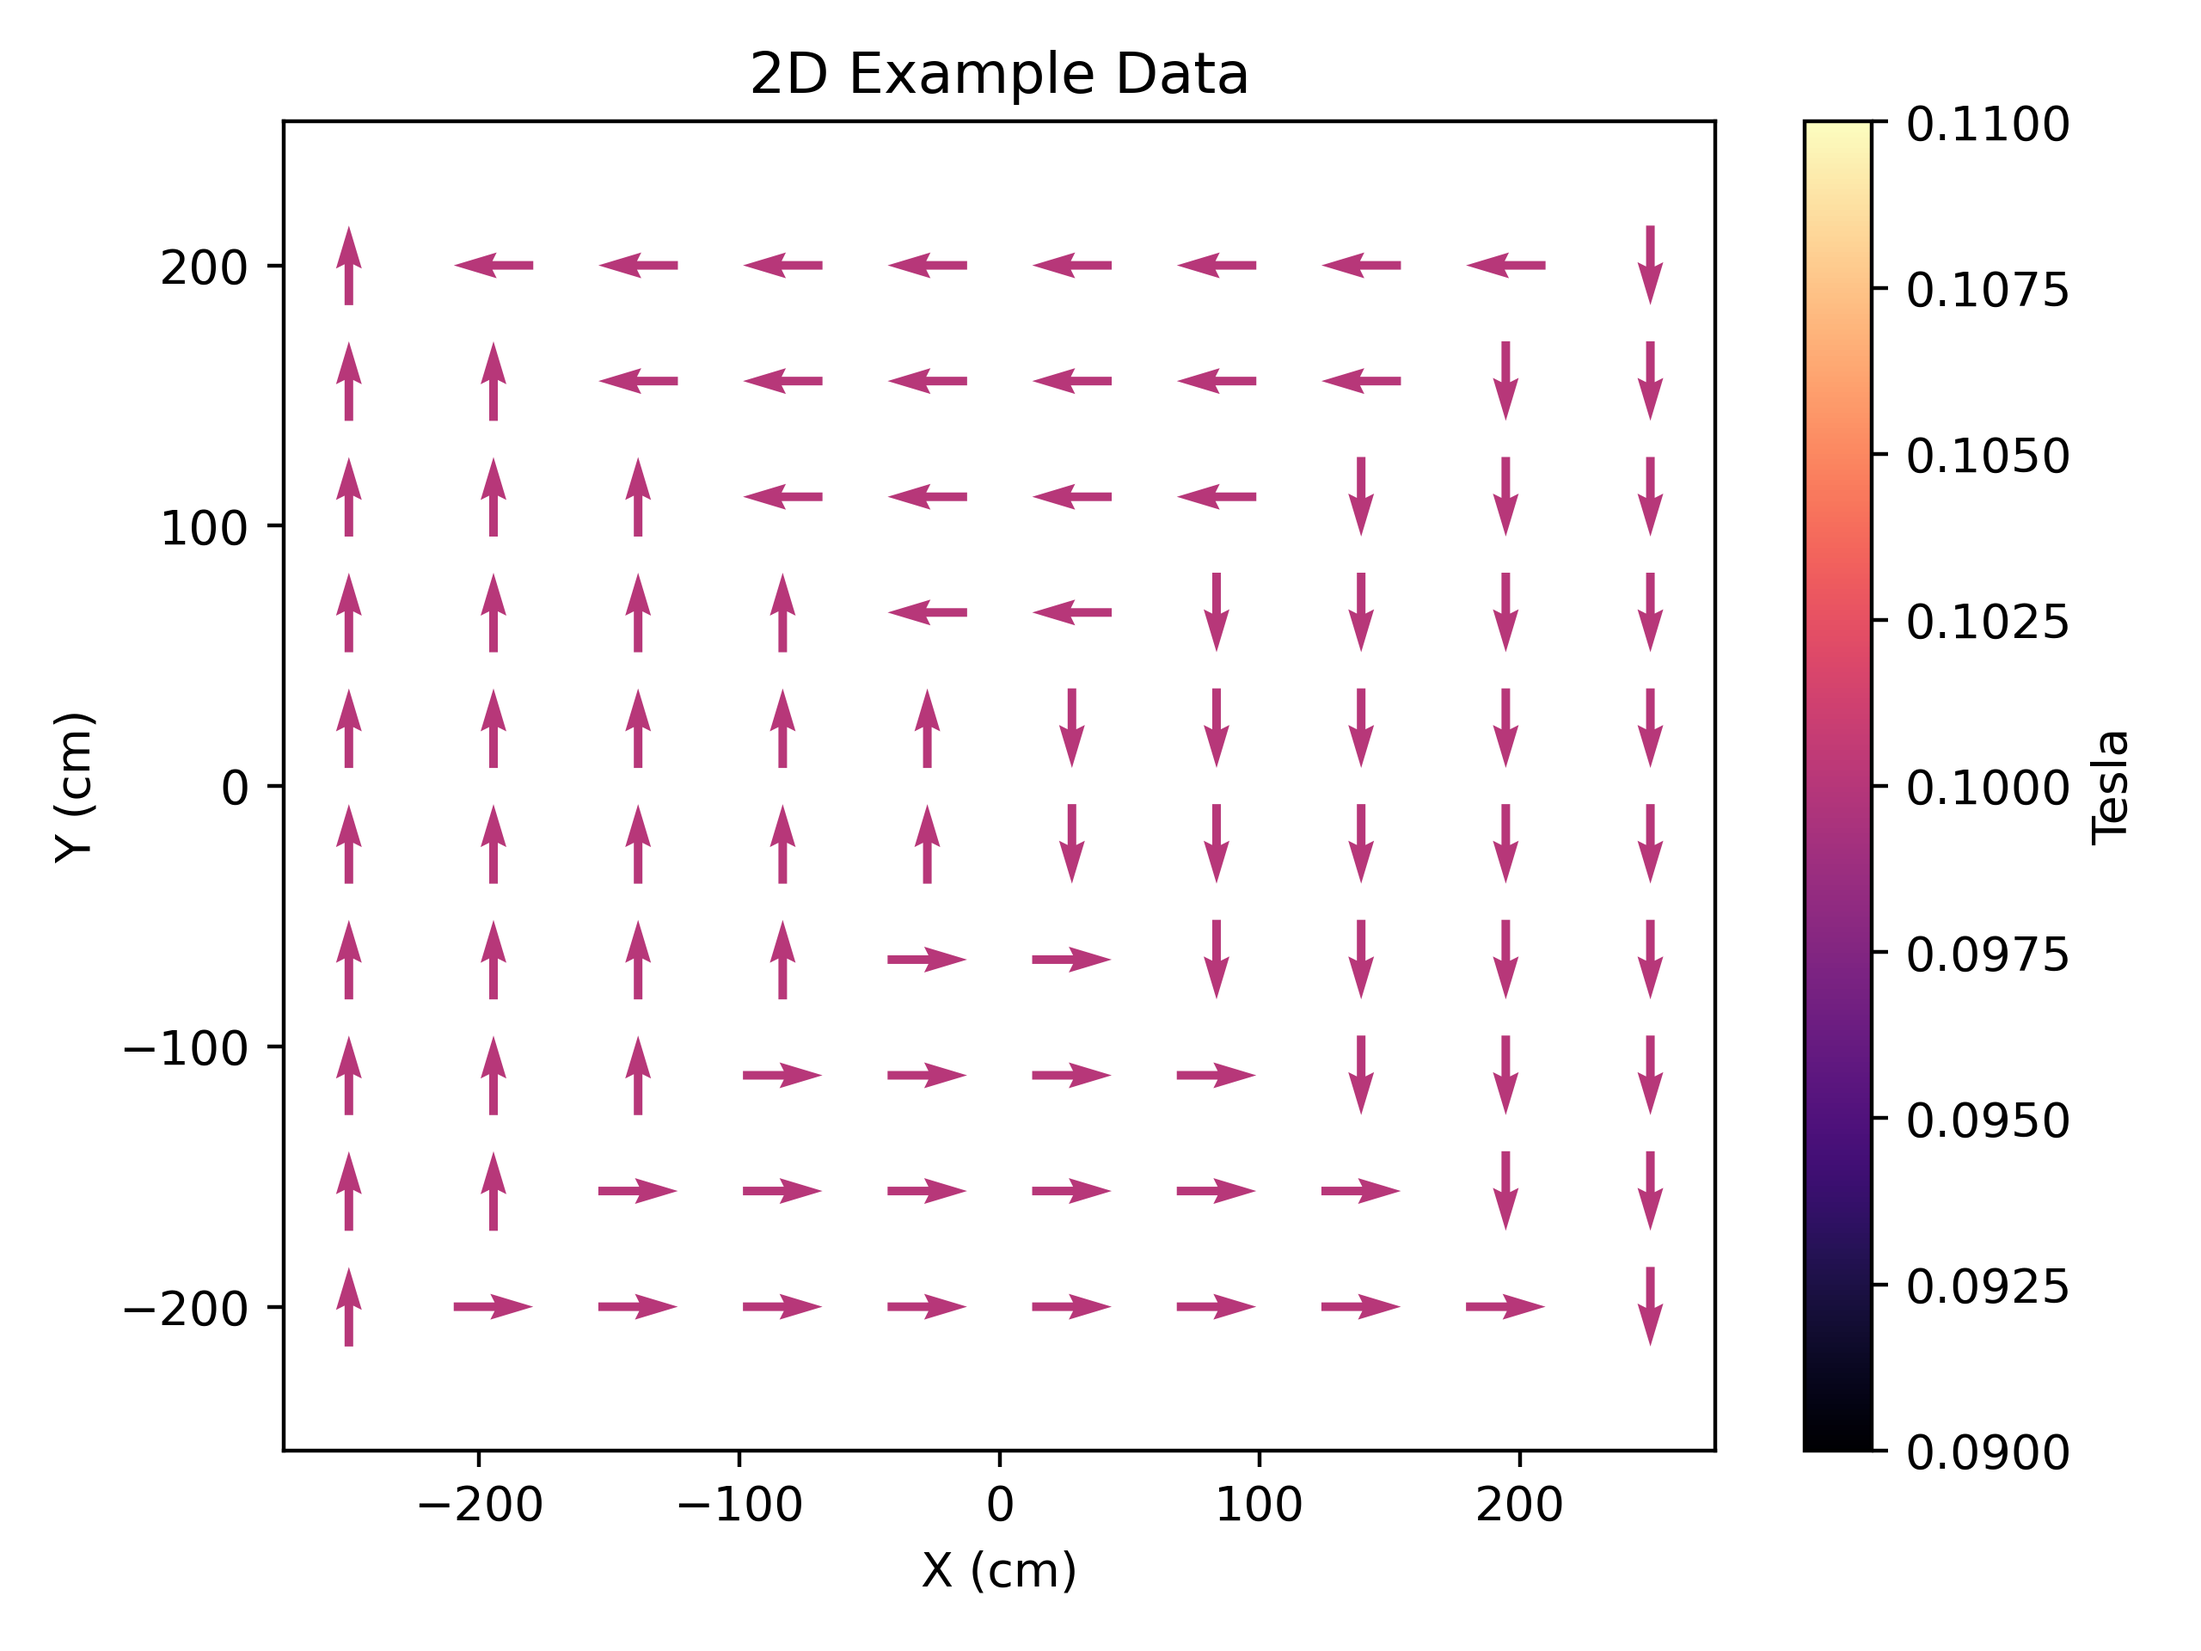
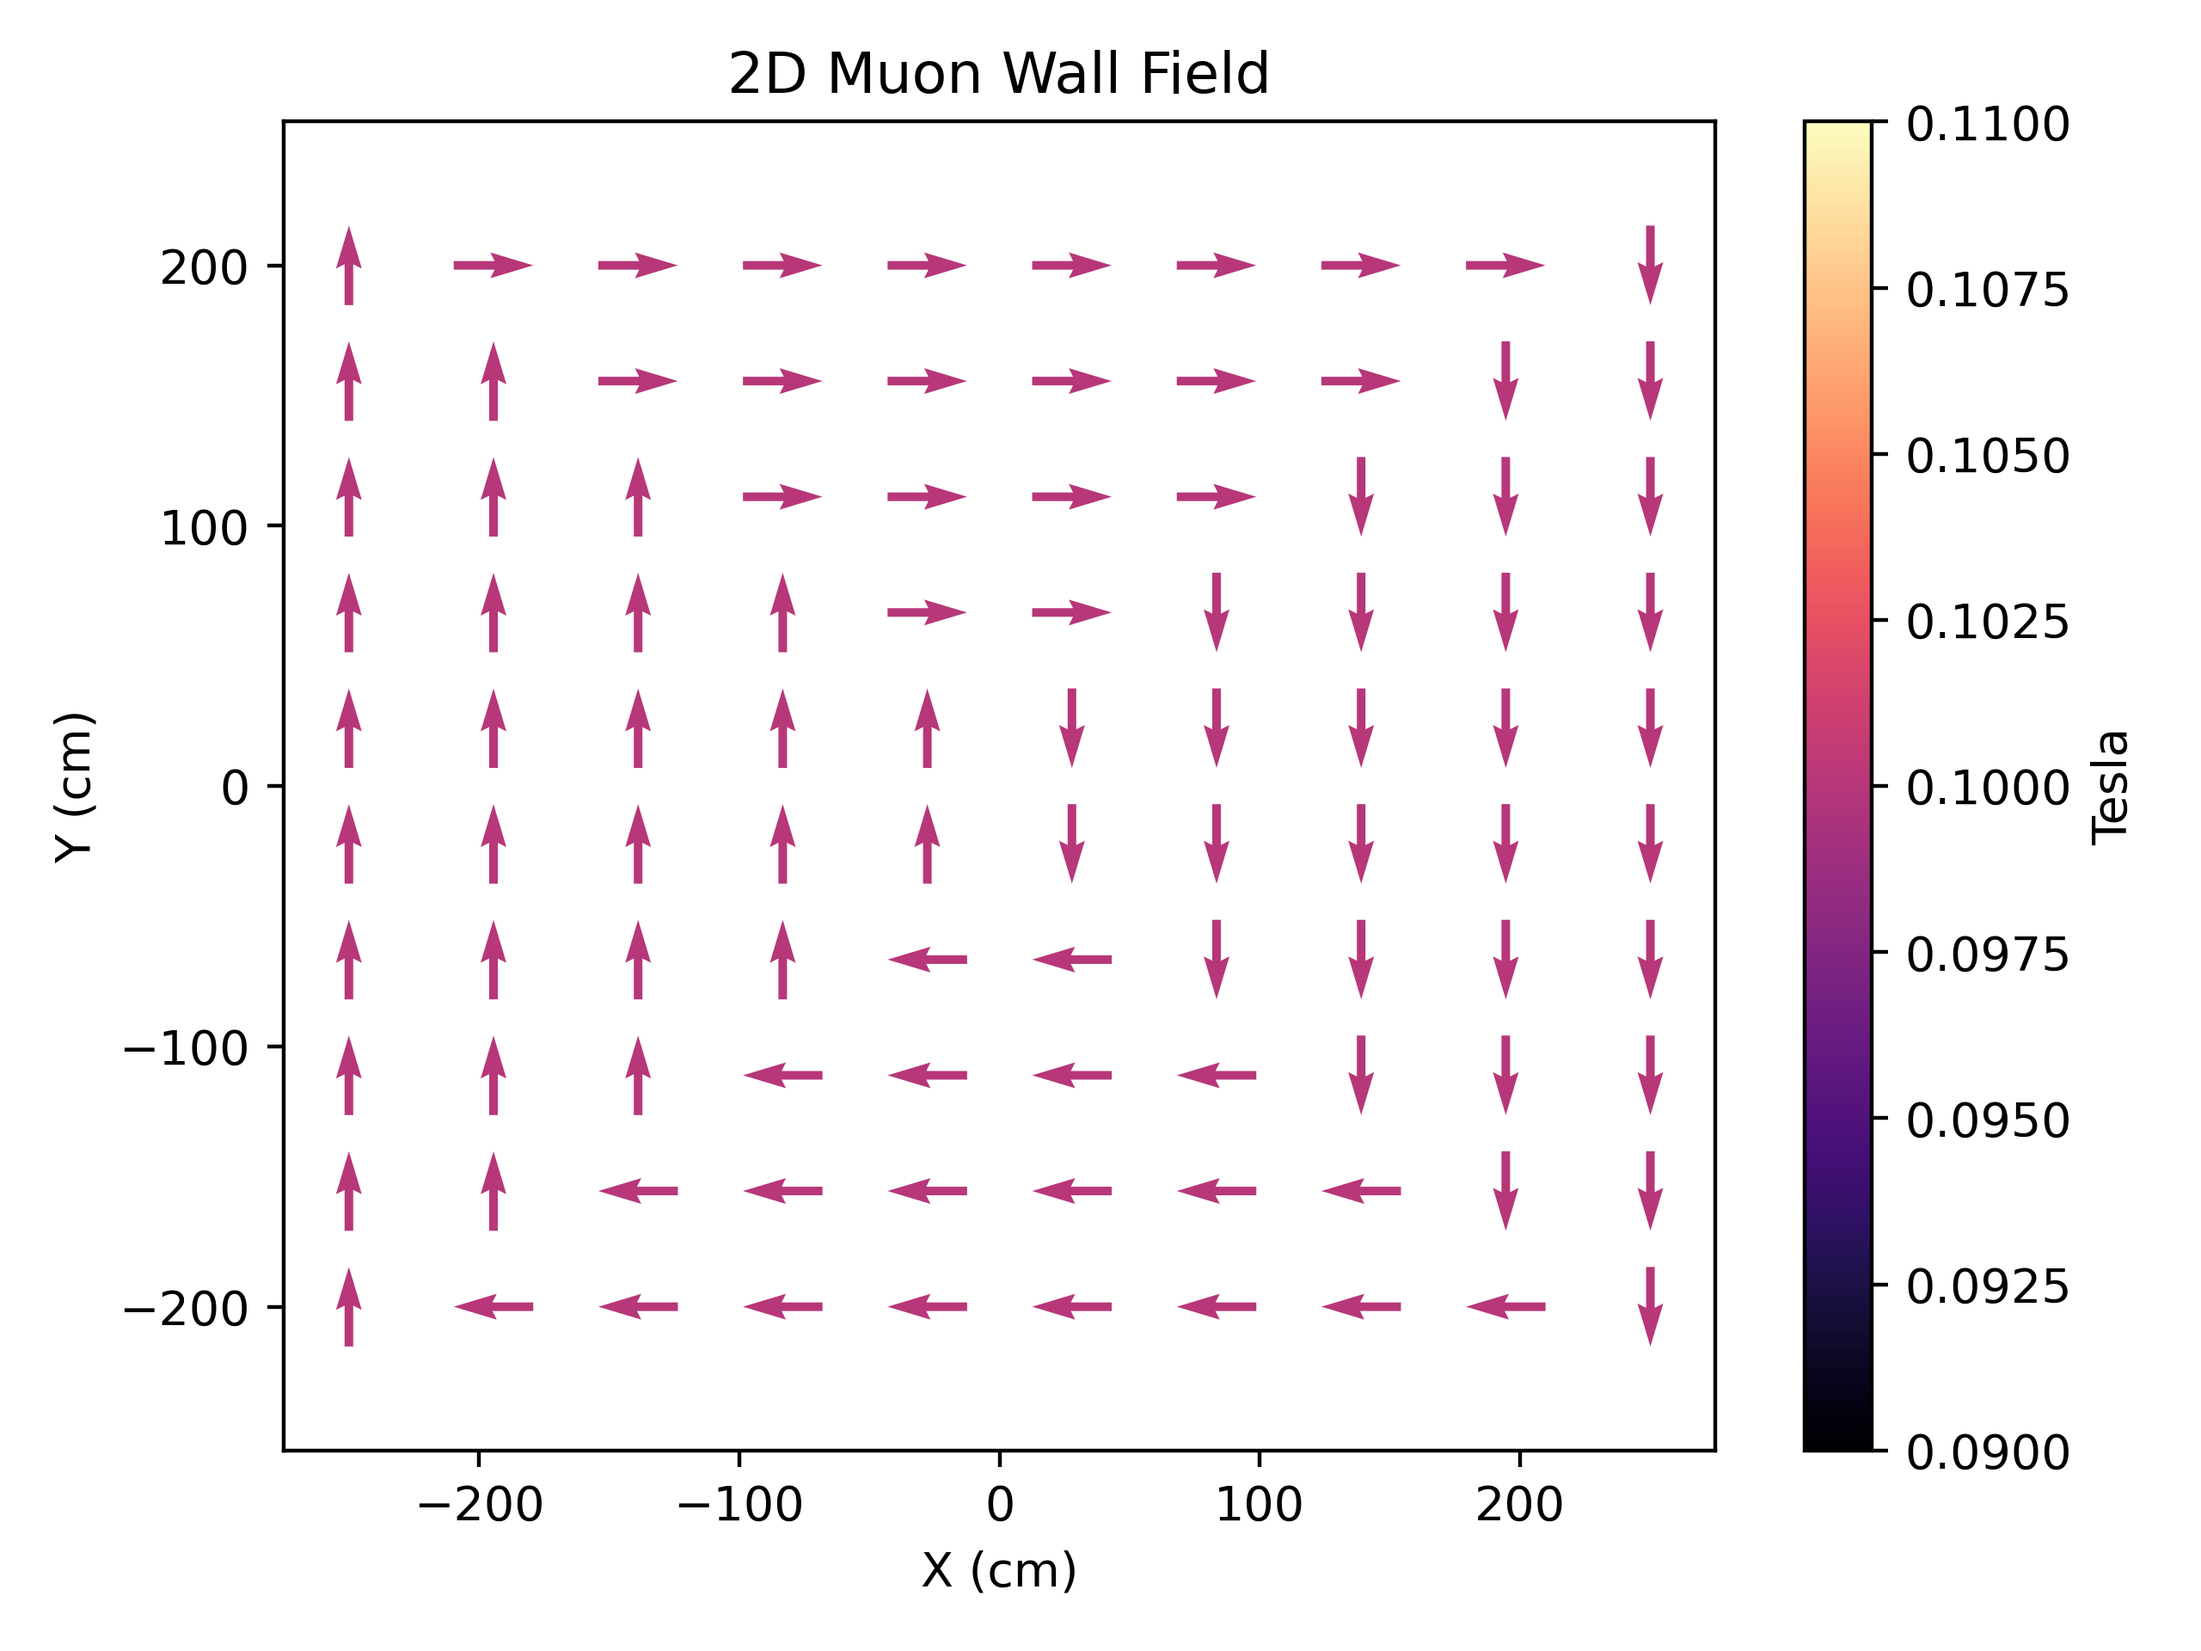
Update test for placement with field.
Former-commit-id: 862665d849afbb97776b2e661e2a3bca6d0cb464

diff --git a/examples/features/geometry/13_placements/generatemuonfield.py b/examples/features/geometry/13_placements/generatemuonfield.py
@@ -11,9 +11,9 @@ def MuonField(x,y,z,B):
     # no variation in z
 
     field = {0 : [0,B,0],
-             1 : [B,0,0],
+             1 : [-B,0,0],
              2 : [0,-B,0],
-             3 : [-B,0,0]}
+             3 : [B,0,0]}
 
     if x == 0 and y == 0:
         return [0,0,0]
